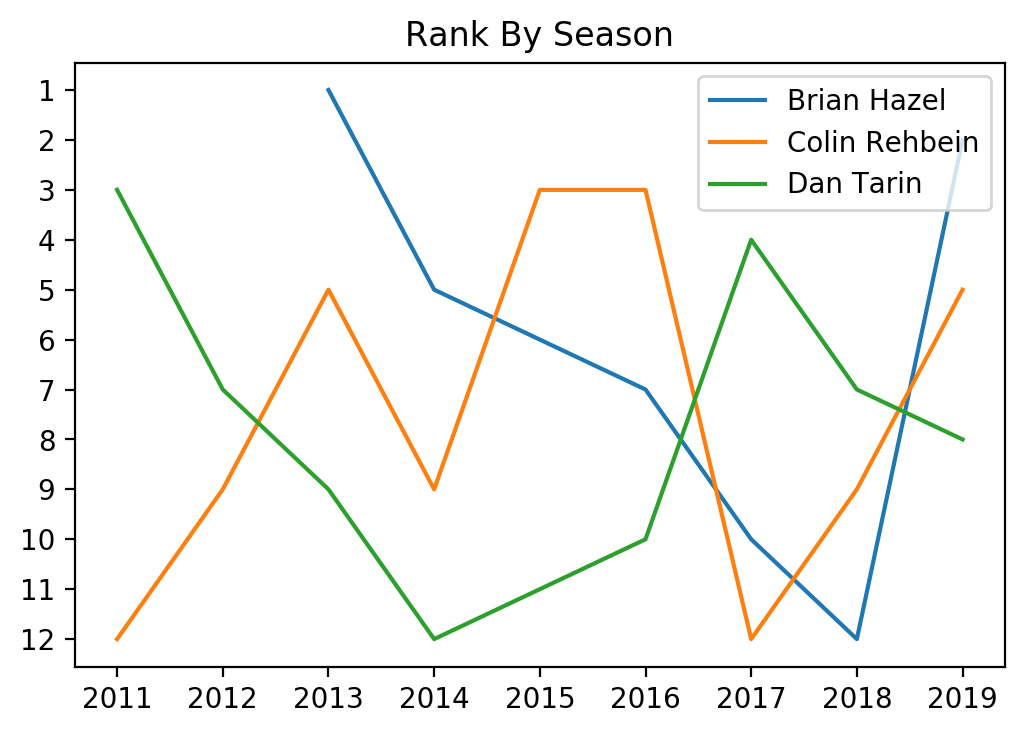
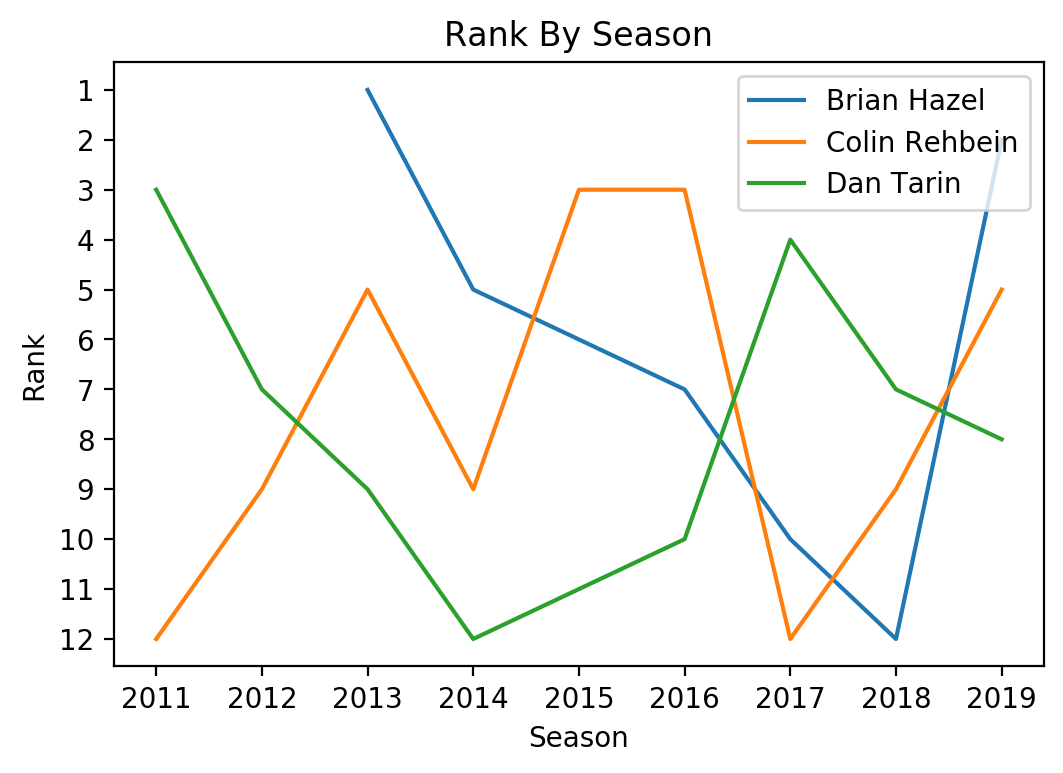
finalized report

diff --git a/analyses.py b/analyses.py
@@ -804,6 +804,8 @@ def plotRankBySeason(df, start, end, grpNbr):
     plt.title(pltTitle)
     plt.yticks(ticks=oldLabels, labels=newLabels)
     plt.legend(subsetDf.columns)
+    plt.xlabel('Season')
+    plt.ylabel('Rank')
     plt.savefig(pltFile, dpi=200, bbox_inches='tight')
 
 plotRankBySeason(osDf, 0, 3, 0)

diff --git a/README.md b/README.md
@@ -46,14 +46,15 @@ Statistics for stuff that happens during the regular season.
 This one is as straightforward as it gets. How often do you win? Hopefully you find your name at the top of this chart. Or, at the very least, have a winning record overall (i.e., > 50%).
 ![Alt text](./plots/reg_season_win_pct.png?raw=true)
 
-# ADD INTERPRETATION
-Matchup Rivalries
-Interpretation...
+### Matchup Rivalries
+How often to you beat the other coaches during the regular season? Here's a heatmap of just that. Find your name on the left and see where it intersects with the people on the bottom. That is how often (%) you've beat that person. Green is good and red is bad. The second plot shows how many times you've played that person.
+
+For example, I have beat Aaron only 14% of the time and we've played each other 14 times. Incredibly, Mike Thomas has beat Danny 100% of the time and they've played each other 9 times! Another thing we learn here is THE NEED TO ALWAYS SHUFFLE THE MATCHUP ORDER AJ!!! We've only had 9 seasons and AJ and Kameron have played each other 18 times during the regular season.
 ![Alt text](./plots/reg_season_matchup_win_percent.png?raw=true)
 ![Alt text](./plots/reg_season_matchup_compete_freq.png?raw=true)
 
 ### End of Season Rank
-For these charts, you want to see low numbers next to your name. There's a pretty wide spread across all coaches. 
+For these charts, you want to see low numbers next to your name. There's a pretty wide spread across all coaches. Mike Thomas consistently finishes well, but has never gotten 1st place. Always a bridesmaid and never a bride :)
 ![Alt text](./plots/reg_season_rank.png?raw=true)
 
 ### Average Points Against
@@ -61,7 +62,7 @@ These are the points that are scored against you. Looking at all seasons, it's p
 ![Alt text](./plots/reg_season_avg_points_against.png?raw=true)
 
 ### Average Points For
-These are the points that you score each week. The distribution is a little more spread out than Points Against. Kameron proudly sits atop the list.
+These are the points that you score each week. The distribution is a little more spread out than Points Against. Kameron proudly sits atop the list and Matt wallows in shame at the bottom.
 ![Alt text](./plots/reg_season_avg_points_for.png?raw=true)
 
 ### Average Weekly Rank
@@ -69,15 +70,15 @@ Each week, there are 12 teams that play in 6 matchups. Instead of looking at the
 ![Alt text](./plots/reg_season_avg_weekly_rank.png?raw=true)
 
 ### Bullshit Wins
-Bullshit wins are an extension of weekly rank. A bullshit win occurs when someone wins their weekly matchup but their weekly score was rank 7 or worse. That means that the person won despite have a lower score than half of the league. This is considered bullshit because, had you played almost anyone else that week, you would have lost. The percentage of bullshit wins is calculated by taking the number of wins that are bullshit divided by your total number of wins. Danny tops the chart with 40% of his wins being bullshit.
+Bullshit wins are an extension of weekly rank. A bullshit win occurs when someone wins their weekly matchup but their weekly score was ranked 7 or worse. That means that the person won despite having a lower score than half of the league. This is considered bullshit because, had you played almost anyone else that week, you would have lost. The percentage of bullshit wins is calculated by taking the number of wins that are bullshit divided by your total number of wins. Danny tops the chart with 40% of his wins being bullshit.
 ![Alt text](./plots/reg_season_bullshit_wins.png?raw=true)
 
 ### Shitty Losses
-Shitty losses are the exact opposite of bullshit wins. A shitty loss occurs when you lose but had a weekly rank of 6 or better. For example, you got the 3rd highest points this week but you played the person who got the 2nd highest points. Had you played almost anyone else, you would have won. It's a shitty loss. To calculate this, I took the number of losses divided by your total number of losses. Rob tops the chart with over a third of his losses being shitty.
+Shitty losses are the exact opposite of bullshit wins. A shitty loss occurs when you lose but had a weekly rank of 6 or better. For example, you got the 2nd highest points this week but you played the person who got the 1st highest points. Had you played anyone else, you would have won. It's a shitty loss. To calculate this, I took the number of losses divided by your total number of losses. Rob tops the chart with over a third of his losses being shitty.
 ![Alt text](./plots/reg_season_shitty_losses.png?raw=true)
 
 ### Poor Coaching
-I wanted to get a measure of coaches giving up, being lazy and basically just not caring. Think of starting someone on IR, starting someone that's on bye or forgetting to roster a position entirely. Unfortunately, NFL FF doesn't save all of the player history. So, I had to settle for analyzing how often you rostered a position that got 0 or fewer points. Matt Smith tops the charts across all seasons and for the last 5 seasons. Matt Cicneros is also consistenly high. On the other end of the spectrum, Alex and Rob do a consistently good job at setting their lineup.
+I wanted to get a measure of coaches giving up, being lazy and basically just not caring. Think of starting someone on IR, starting someone that's on bye or forgetting to roster a position entirely. Unfortunately, NFL FF doesn't save all of the player history, so I had to settle for analyzing how often you rostered a position that got 0 or fewer points. Our fabulous Commisioner tops the chart (shame!). On the other end of the spectrum, Alex and Rob do a consistently good job at setting their lineup.
 ![Alt text](./plots/reg_season_poor_coaching.png?raw=true)
 
 ### Bench Composition
@@ -101,7 +102,7 @@ Kameron has won thrice. AJ has won twice. Brian, Sam, Aaron and myself have won 
 ![Alt text](./plots/playoff_champion.png?raw=true)
 
 ### Rank by Season
-With the next four plots, we're looking at your rank (y-axis) at the end of each season (x-axis). For 11 of us, there's no real pattern. It's a jumbled mess. One season you're good - the next you suck. However, for Kameron, there is a clear rise to power. He has improved his ranking every season since 2012, culminating with 3 successive championships.
+With the next four plots, we're looking at your rank (y-axis) at the end of each season (x-axis). For 11 of us, there's no real pattern. It's just a jumbled mess. One season you're good - the next you suck. However, for Kameron, there is a clear rise to power. He has improved his ranking every season since 2012, culminating with 3 successive championships. We hate you Kameron #AnyoneButBurt2020
 ![Alt text](./plots/rank_by_season0.png?raw=true)
 ![Alt text](./plots/rank_by_season1.png?raw=true)
 ![Alt text](./plots/rank_by_season2.png?raw=true)
